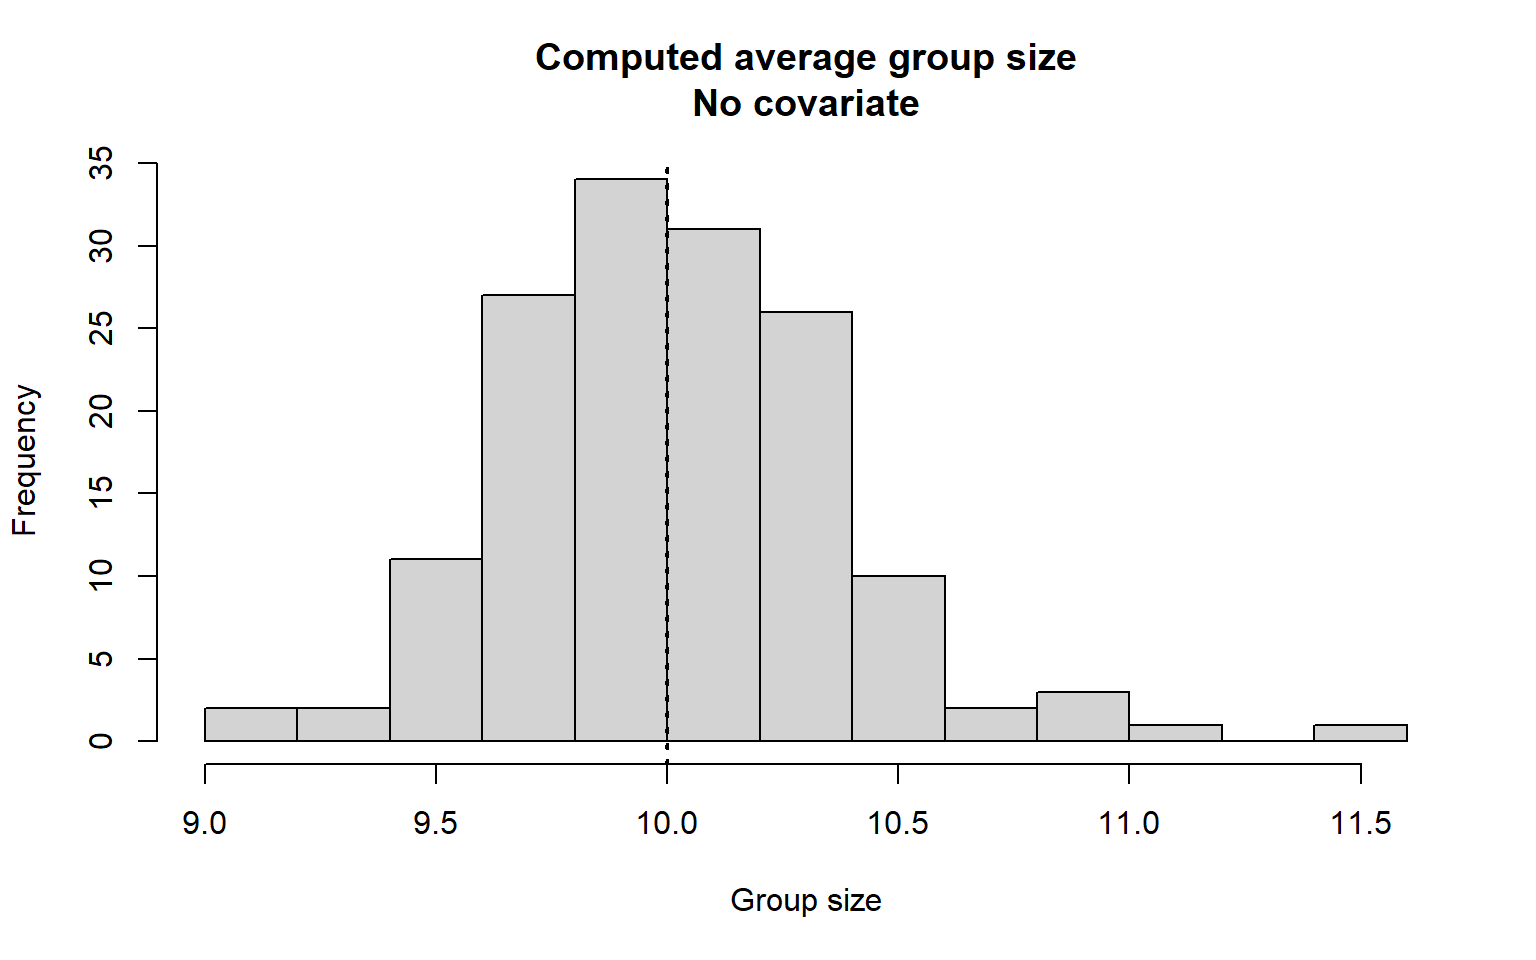
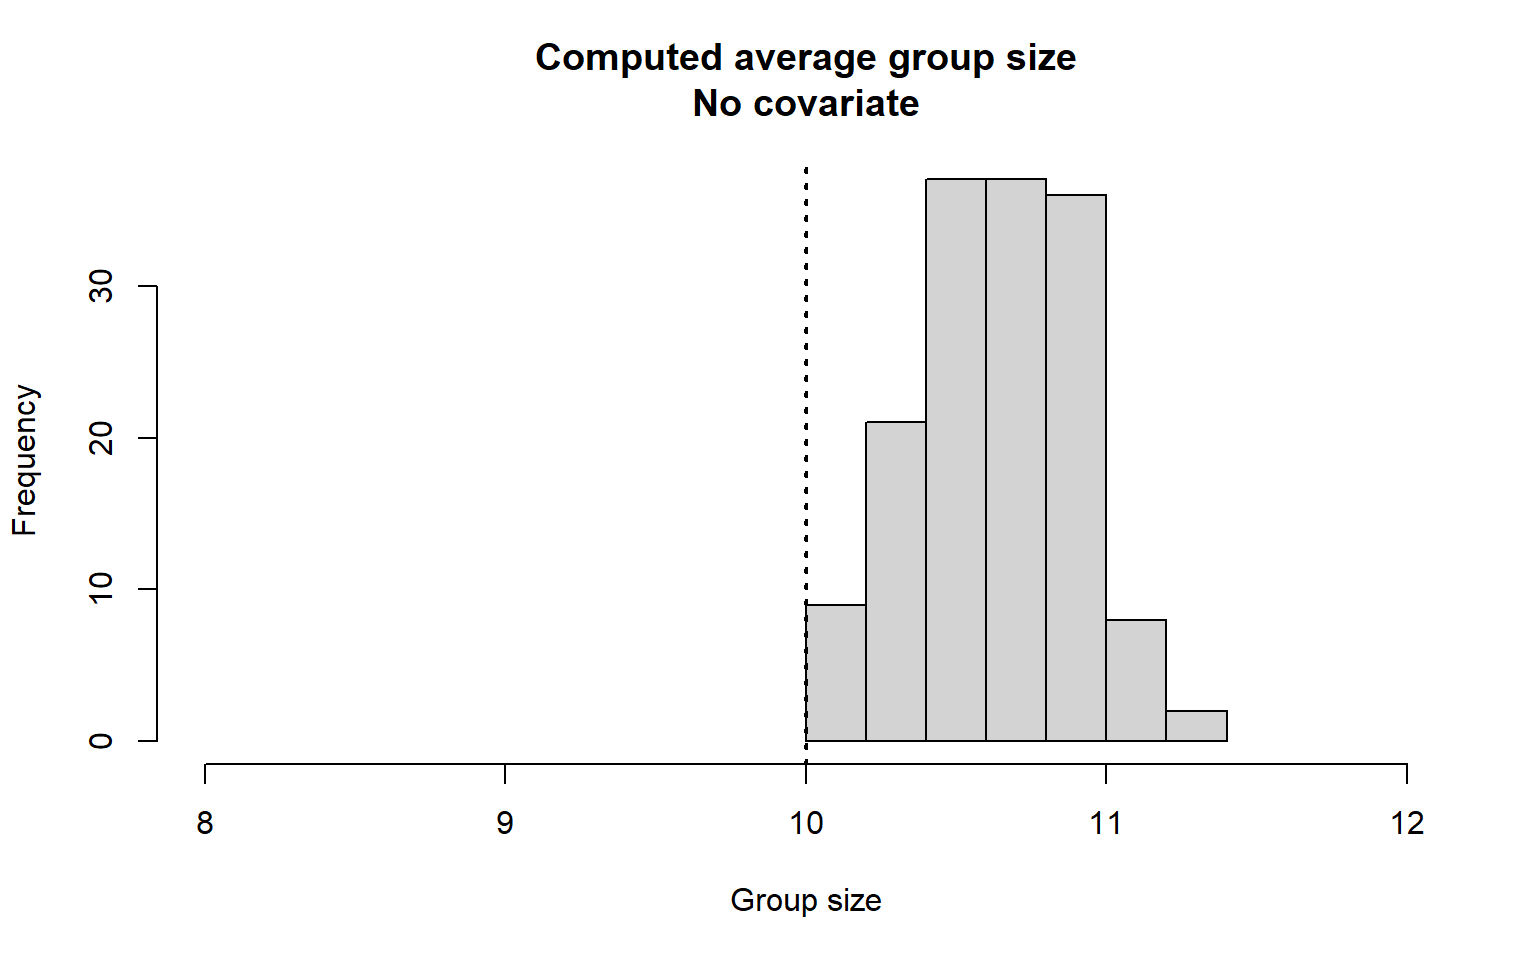
group size simulation converted to dsims

diff --git a/docs/Pr8/Group-size-covariate.html b/docs/Pr8/Group-size-covariate.html
@@ -299,7 +299,7 @@ Supplement
 </div>
 <p>You can see it is very rare for herds to exceed a size of twice the mean.</p>
 <p>I’ll create a population with this distribution of herd size, with a true number of <strong>herds</strong> of 200; hence true number of individuals in the population is 2000.</p>
-<div class="cell" data-hash="Group-size-covariate_cache/html/sim10_f8c3cc203d91906a6d7a2b7d7302ca21">
+<div class="cell">
 <div class="cell-output-display">
 <p><img src="Group-size-covariate_files/figure-html/sim10-1.png" class="img-fluid" width="672"></p>
 </div>
@@ -314,11 +314,14 @@ Supplement
 <section id="analysis-including-group-size-covariate" class="level2">
 <h2 class="anchored" data-anchor-id="analysis-including-group-size-covariate">Analysis including group size covariate</h2>
 <div class="cell">
+<div class="sourceCode cell-code" id="cb2"><pre class="sourceCode r code-with-copy"><code class="sourceCode r"><span id="cb2-1"><a href="#cb2-1" aria-hidden="true" tabindex="-1"></a>runsim.cov <span class="ot">&lt;-</span> <span class="fu">run.simulation</span>(size.cov, <span class="at">run.parallel =</span> <span class="cn">TRUE</span>)</span></code><button title="Copy to Clipboard" class="code-copy-button"><i class="bi"></i></button></pre></div>
+</div>
+<div class="cell">
 <div class="cell-output-display">
 <p><img src="Group-size-covariate_files/figure-html/small-with-covar-1.png" class="img-fluid" width="768"></p>
 </div>
 </div>
-<p>The distribution of computed average group size centred on the true size of 10 and there was no problem with fitting a detection function. The average over the simulations estimated number of individuals was 2008.39.</p>
+<p>The distribution of computed average group size centred on the true size of 10 and there was no problem with fitting a detection function. The average over the simulations estimated number of individuals was 2272.47.</p>
 </section>
 <section id="analysis-without-group-size-covariate" class="level2">
 <h2 class="anchored" data-anchor-id="analysis-without-group-size-covariate">Analysis without group size covariate</h2>
@@ -328,7 +331,7 @@ Supplement
 <p><img src="Group-size-covariate_files/figure-html/nocov-10-1.png" class="img-fluid" width="768"></p>
 </div>
 </div>
-<p>The distribution of computed average groups sizes is shown above. We would expect an overestimate of mean group size because small groups at large distances are missing from our sample; but that effect is small in this instance. As a consequence, the average <span class="math inline">\(\hat{N}_{indiv}\)</span> across all simulations is 2005.56.</p>
+<p>The distribution of computed average groups sizes is shown above. We would expect an overestimate of mean group size because small groups at large distances are missing from our sample; but that effect is small in this instance. As a consequence, the average <span class="math inline">\(\hat{N}_{indiv}\)</span> across all simulations is 2304.95.</p>
 </section>
 </section>
 <section id="example-2-possible-dolphin-pods-or-seabird-rafts" class="level1">
@@ -346,17 +349,17 @@ Supplement
 <p>How about “missingness” of small groups at large distances?</p>
 <div class="cell">
 <div class="cell-output-display">
-<p><img src="Group-size-covariate_files/figure-html/unnamed-chunk-9-1.png" class="img-fluid" width="672"></p>
+<p><img src="Group-size-covariate_files/figure-html/unnamed-chunk-10-1.png" class="img-fluid" width="672"></p>
 </div>
 </div>
 <section id="analysis-with-covariate" class="level2">
 <h2 class="anchored" data-anchor-id="analysis-with-covariate">Analysis with covariate</h2>
 <div class="cell" data-fig.margin="true">
 <div class="cell-output-display">
-<p><img src="Group-size-covariate_files/figure-html/unnamed-chunk-10-1.png" class="img-fluid" width="672"></p>
+<p><img src="Group-size-covariate_files/figure-html/unnamed-chunk-11-1.png" class="img-fluid" width="672"></p>
 </div>
 </div>
-<p>When including <code>size</code> as a covariate, estimates of average group size are not affected (figure above). Likewise, mean <span class="math inline">\(\hat{N}_{indiv}\)</span> is effectively unbiased: 4499.07.</p>
+<p>When including <code>size</code> as a covariate, estimates of average group size are not affected (figure above). Likewise, mean <span class="math inline">\(\hat{N}_{indiv}\)</span> is effectively unbiased: 5453.55.</p>
 </section>
 <section id="analysis-without-the-covariate" class="level2">
 <h2 class="anchored" data-anchor-id="analysis-without-the-covariate">Analysis without the covariate</h2>
@@ -365,10 +368,10 @@ Supplement
 <p><img src="Group-size-covariate_files/figure-html/lognor-without-1.png" class="img-fluid" width="672"></p>
 </div>
 </div>
-<p>Now mean <span class="math inline">\(\hat{N}_{indiv}\)</span> is <strong>considerably biased</strong>: 5420.44, 23.5 percent larger than the true number of individuals in the population, 4388.</p>
+<p>Now mean <span class="math inline">\(\hat{N}_{indiv}\)</span> is <strong>considerably biased</strong>: 5829.77, 32.9 percent larger than the true number of individuals in the population, 4388.</p>
 <div class="cell">
 <div class="cell-output-display">
-<p><img src="Group-size-covariate_files/figure-html/unnamed-chunk-12-1.png" class="img-fluid" width="672"></p>
+<p><img src="Group-size-covariate_files/figure-html/unnamed-chunk-13-1.png" class="img-fluid" width="672"></p>
 </div>
 </div>
 </section>
